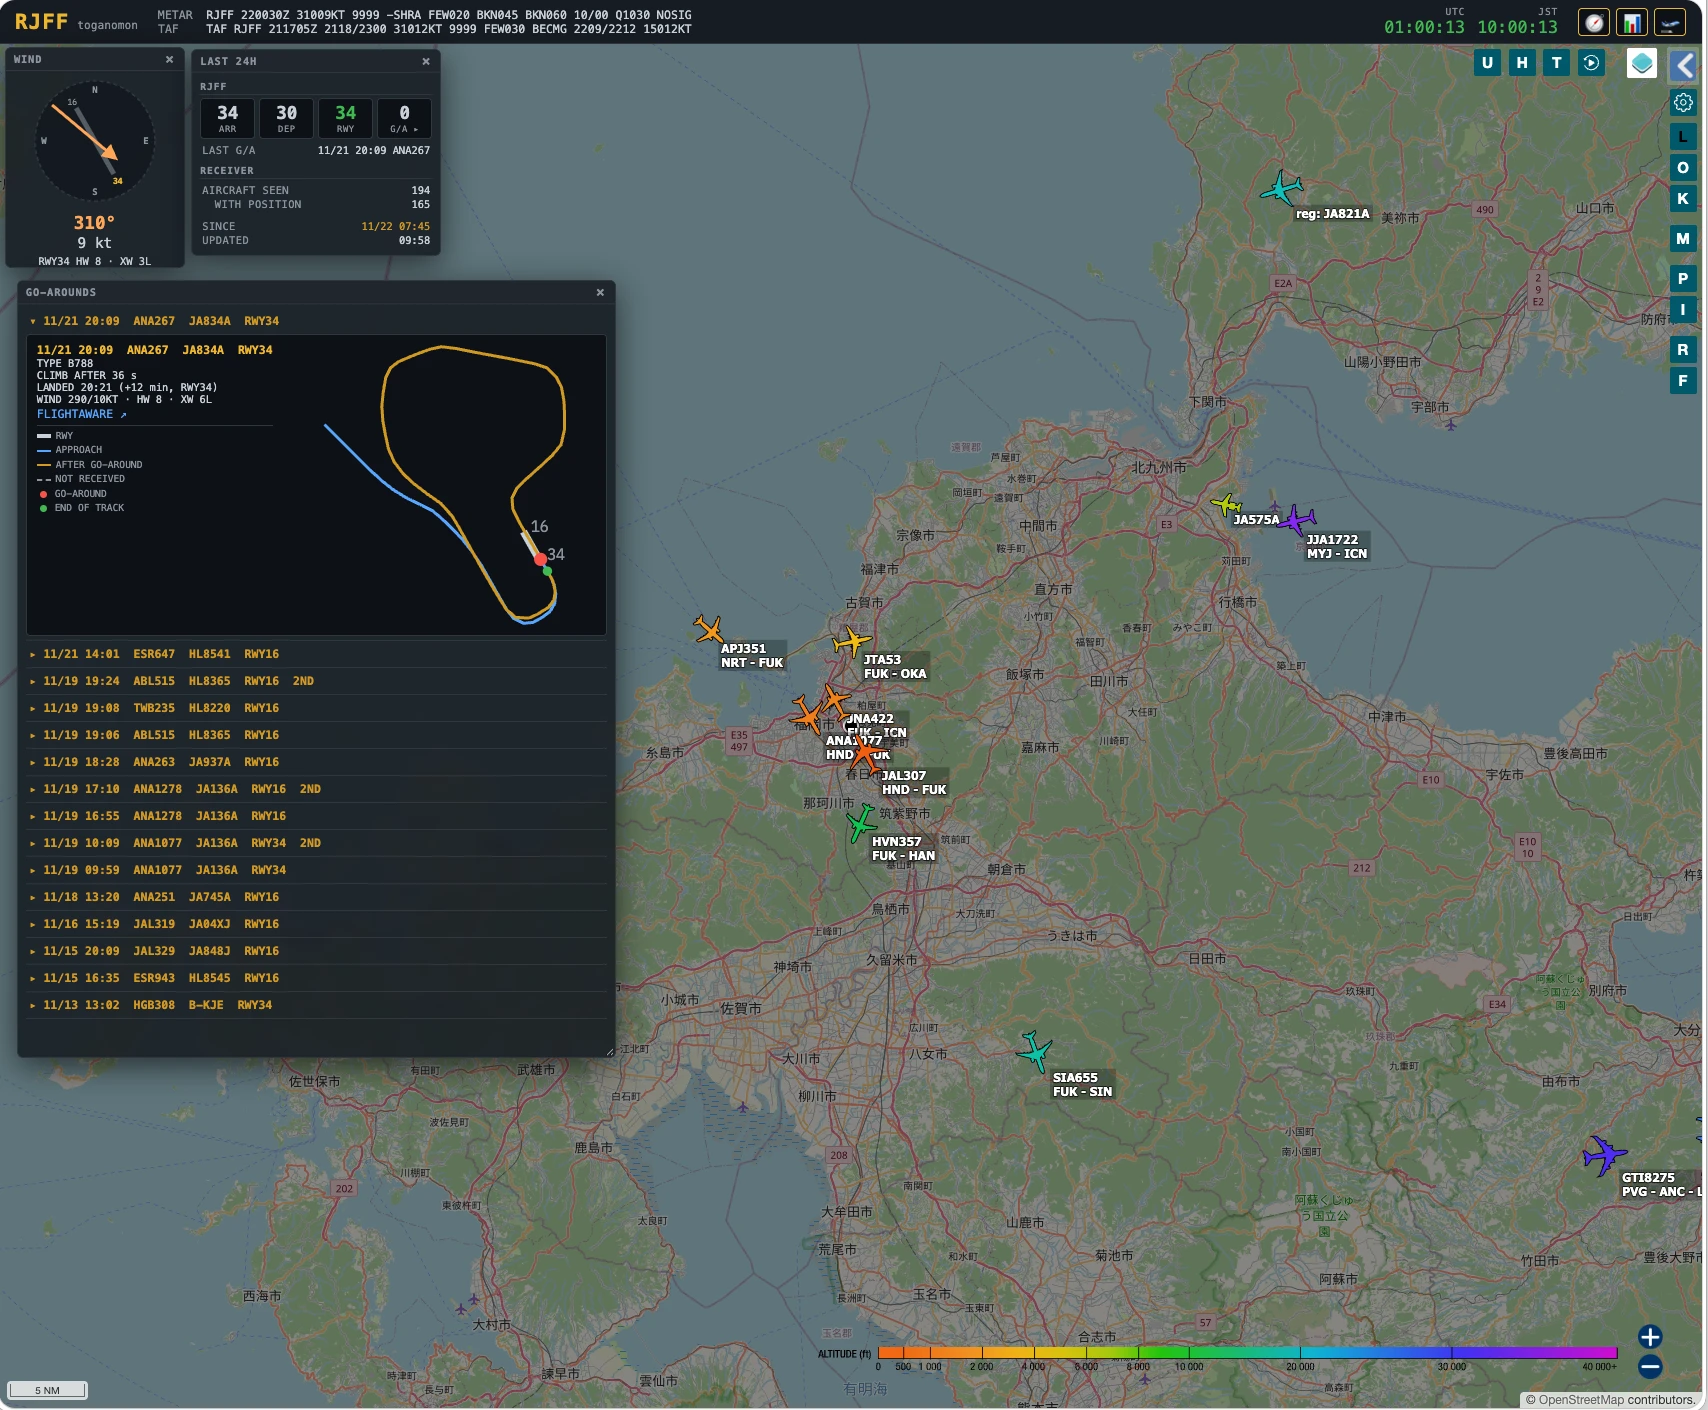
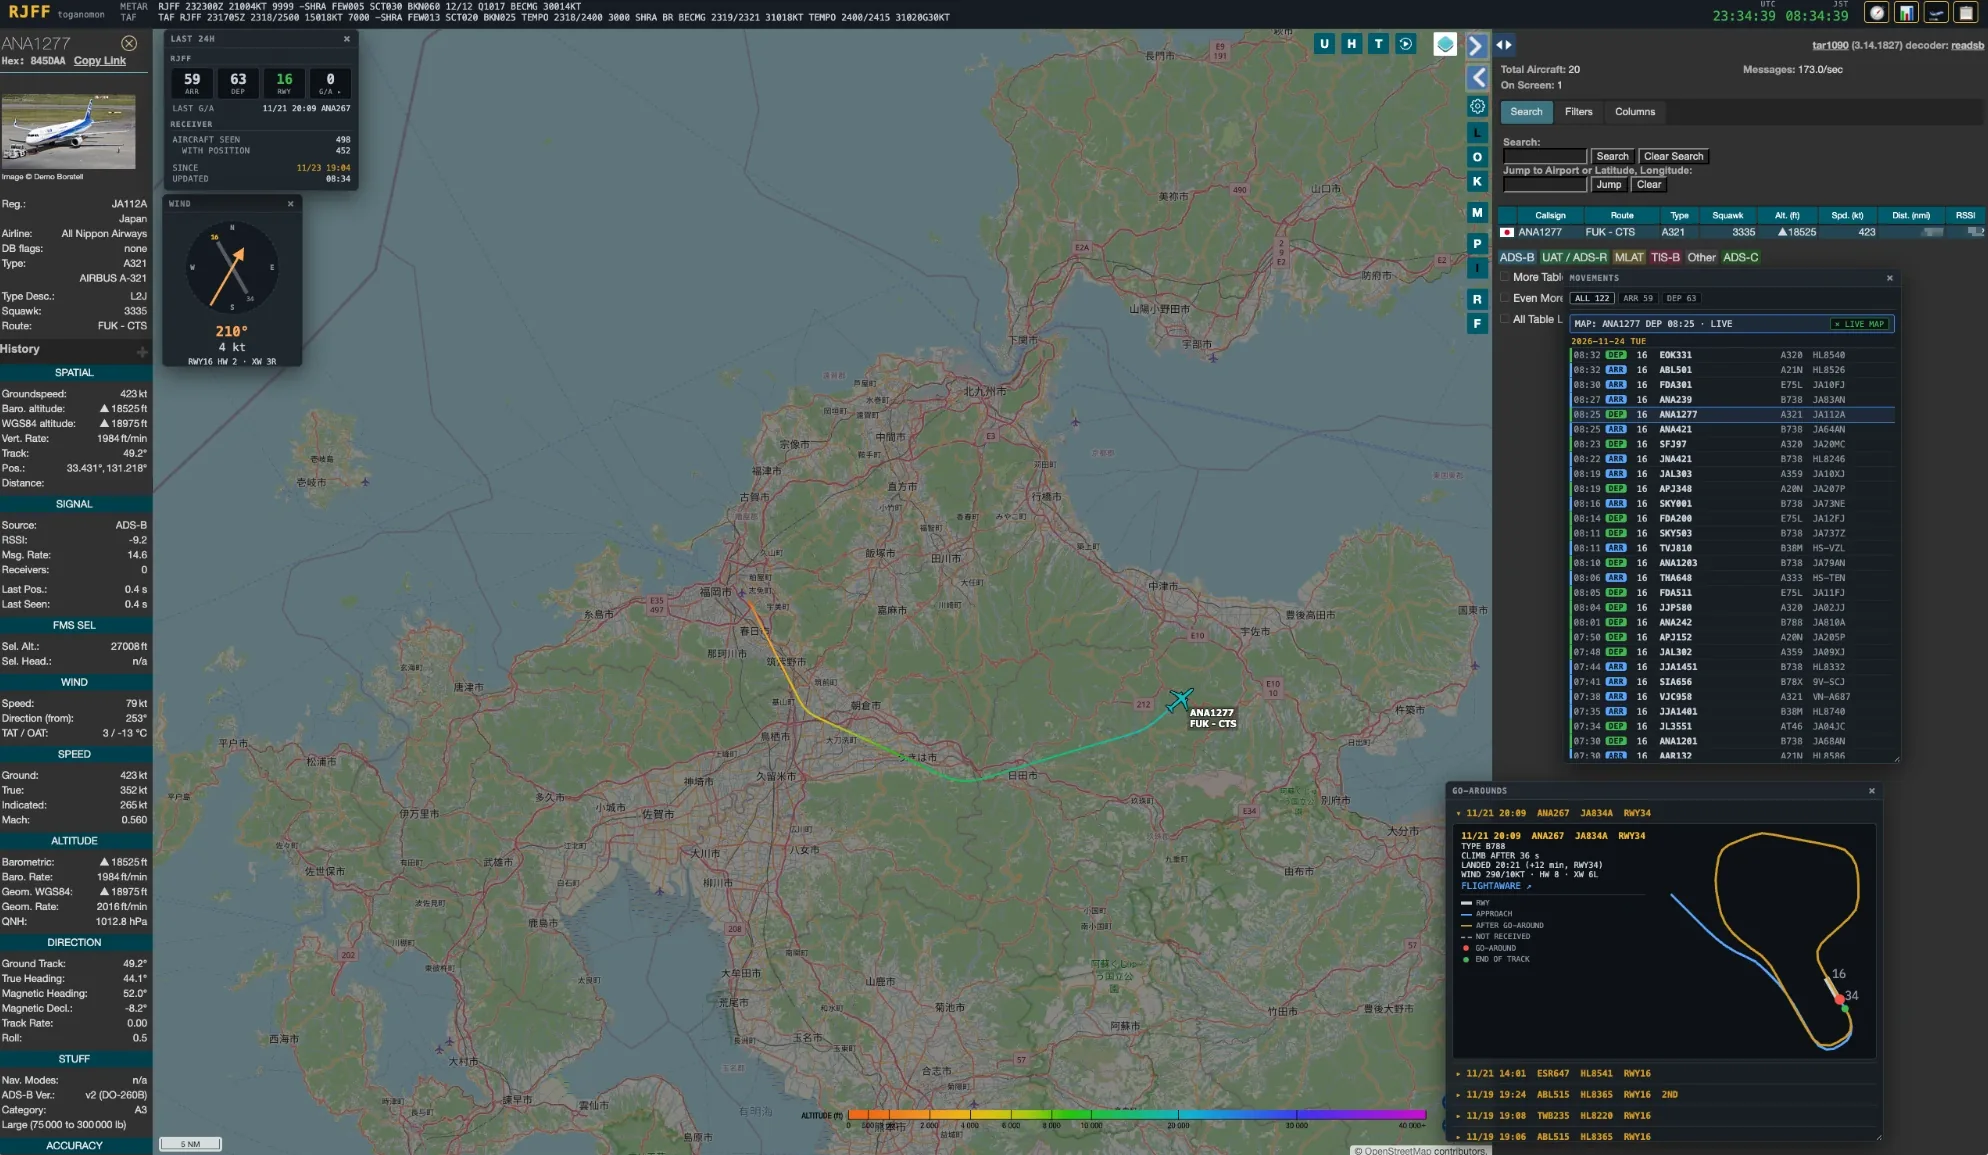
docs: new console screenshot (MOVEMENTS, a departure on the map)
The receiver distance in tar1090's panels is blanked out.

diff --git a/README.md b/README.md
@@ -7,7 +7,7 @@ Watches an airport from your ADS-B receiver: counts its arrivals and
 departures, detects probable go-arounds and shows them in a browser over a
 tar1090 map, with the METAR wind on the runways.
 
-![toganomon console at Fukuoka (RJFF): WIND, LAST 24H and GO-AROUNDS windows over the tar1090 map](docs/console.webp)
+![toganomon console at Fukuoka (RJFF): LAST 24H, WIND, MOVEMENTS and GO-AROUNDS windows over the tar1090 map, which shows the climb-out of a departure picked in MOVEMENTS](docs/console.webp)
 
 Status: extracted from a home receiver setup at Fukuoka (RJFF), where it has
 run since November 2026.
